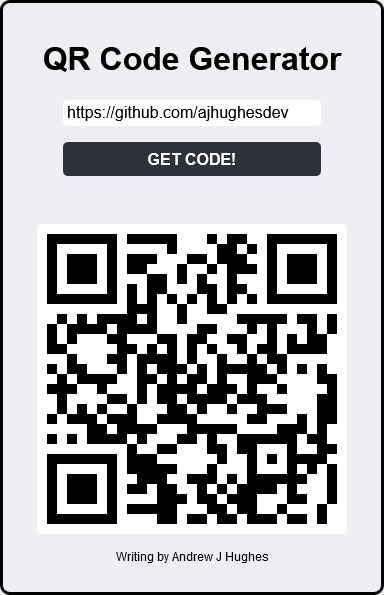
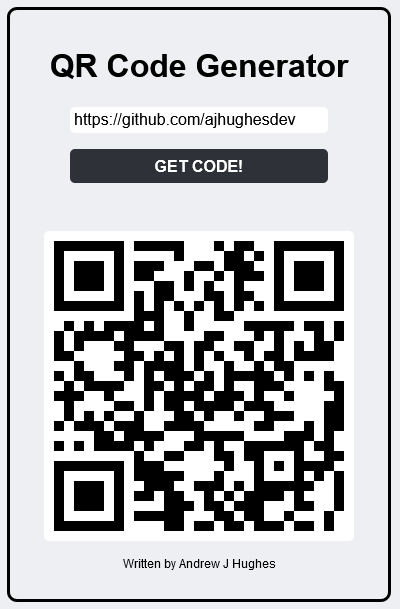
typo

Changed region(s): [[0.0, 0.0, 1.0, 1.0], [0.1562, 0.1815, 0.8438, 0.3025], [0.0938, 0.0605, 0.875, 0.1513]]

diff --git a/bin/output/www/index.html b/bin/output/www/index.html
@@ -110,7 +110,7 @@
     <div id="demo"></div>
   </main>
   <footer>
-    <p>Writing by <a href="https://github.com/ajhughesdev">Andrew J Hughes</a></p>
+    <p>Written by <a href="https://github.com/ajhughesdev">Andrew J Hughes</a></p>
   </footer>
 
   <script>
